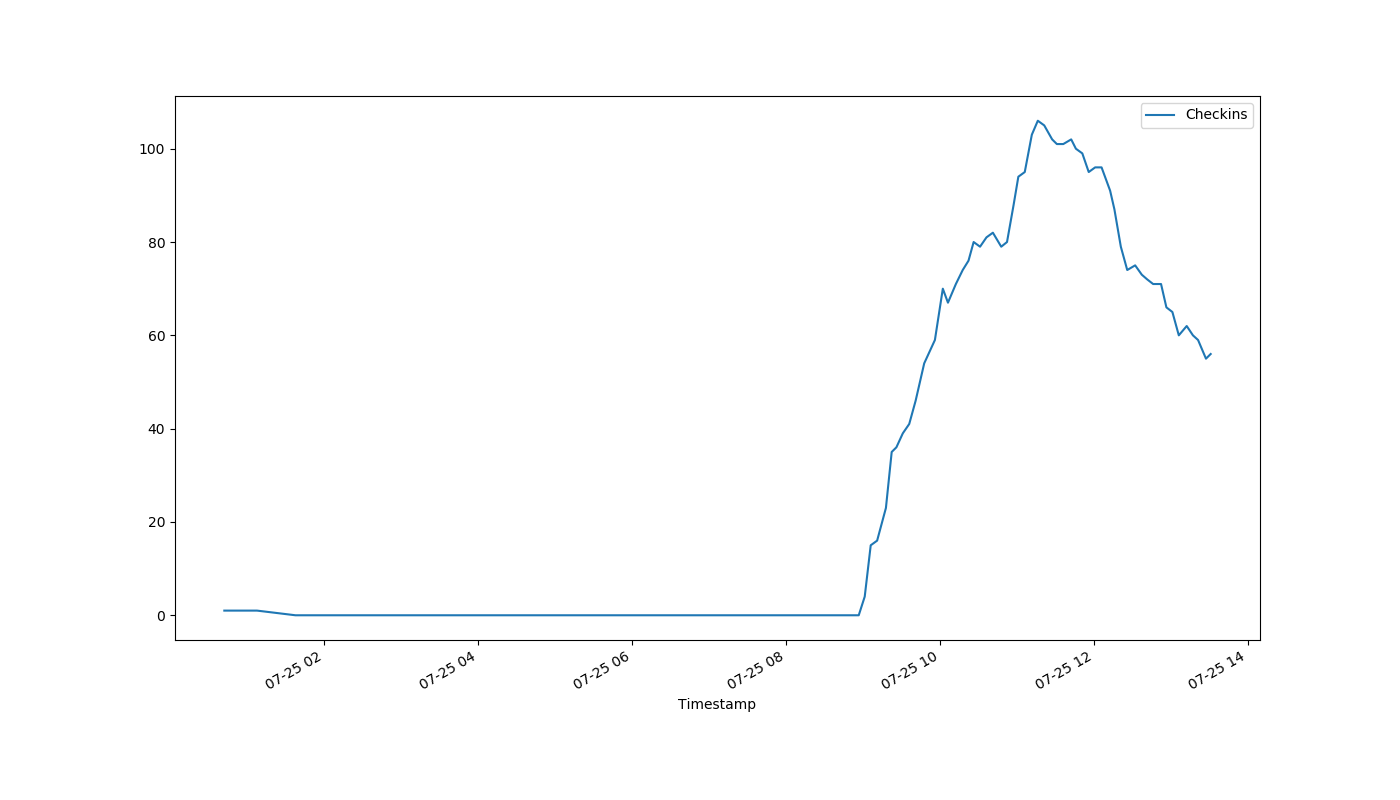
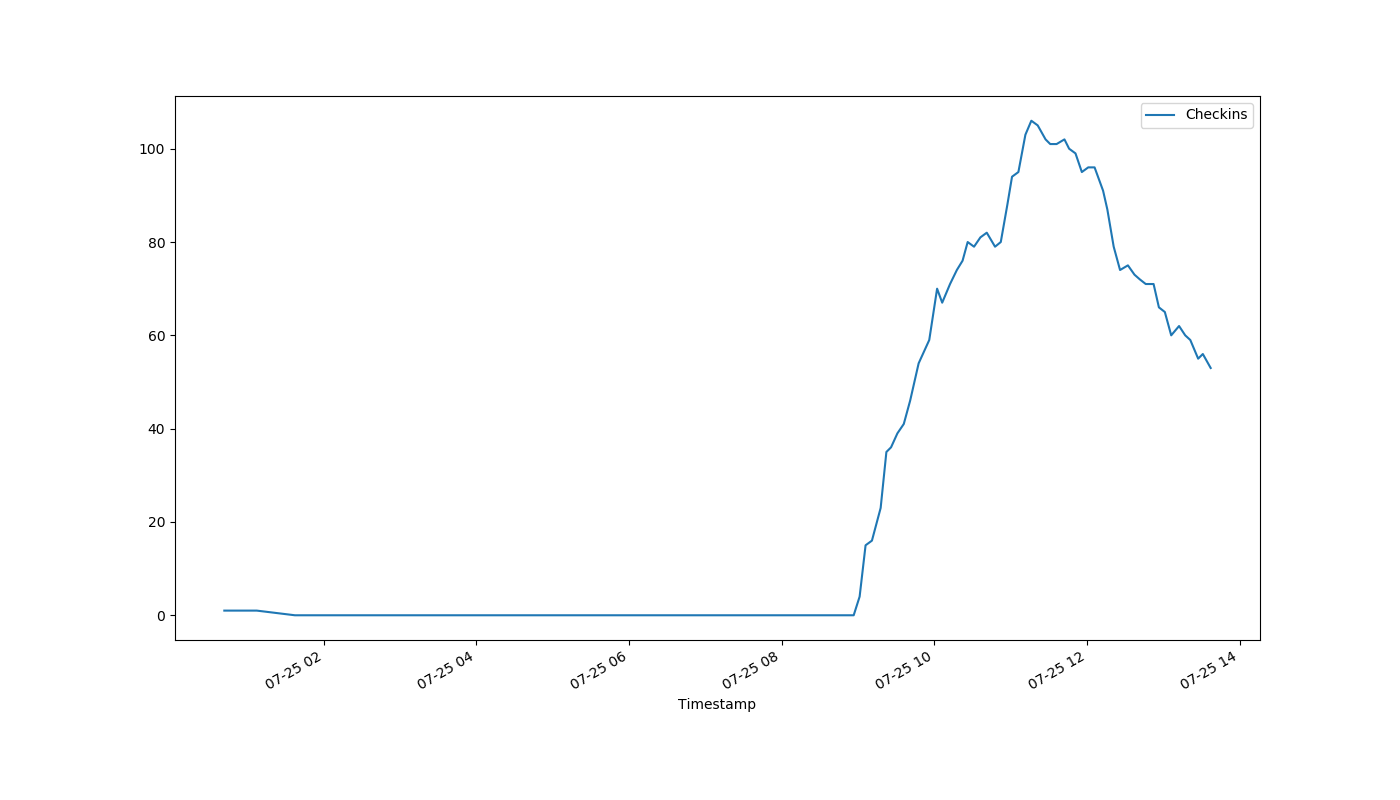
auto-Jul-25-13:38:23

diff --git a/index.html b/index.html
@@ -1,1 +1,1 @@
-<!DOCTYPE html><html><head><meta http-equiv="refresh" content="30"><link rel='stylesheet' href='holmcurrent.css'></head><body><p id='count'>56</p><div id='graph-wrap'><img id='graph' src='holmgraph-Jul-25.png'></div><p id='updated'>Last updated 13:32:03 / 13:31:08</p></body></html>
+<!DOCTYPE html><html><head><meta http-equiv="refresh" content="30"><link rel='stylesheet' href='holmcurrent.css'></head><body><p id='count'>53</p><div id='graph-wrap'><img id='graph' src='holmgraph-Jul-25.png'></div><p id='updated'>Last updated 13:38:03 / 13:37:18</p></body></html>
